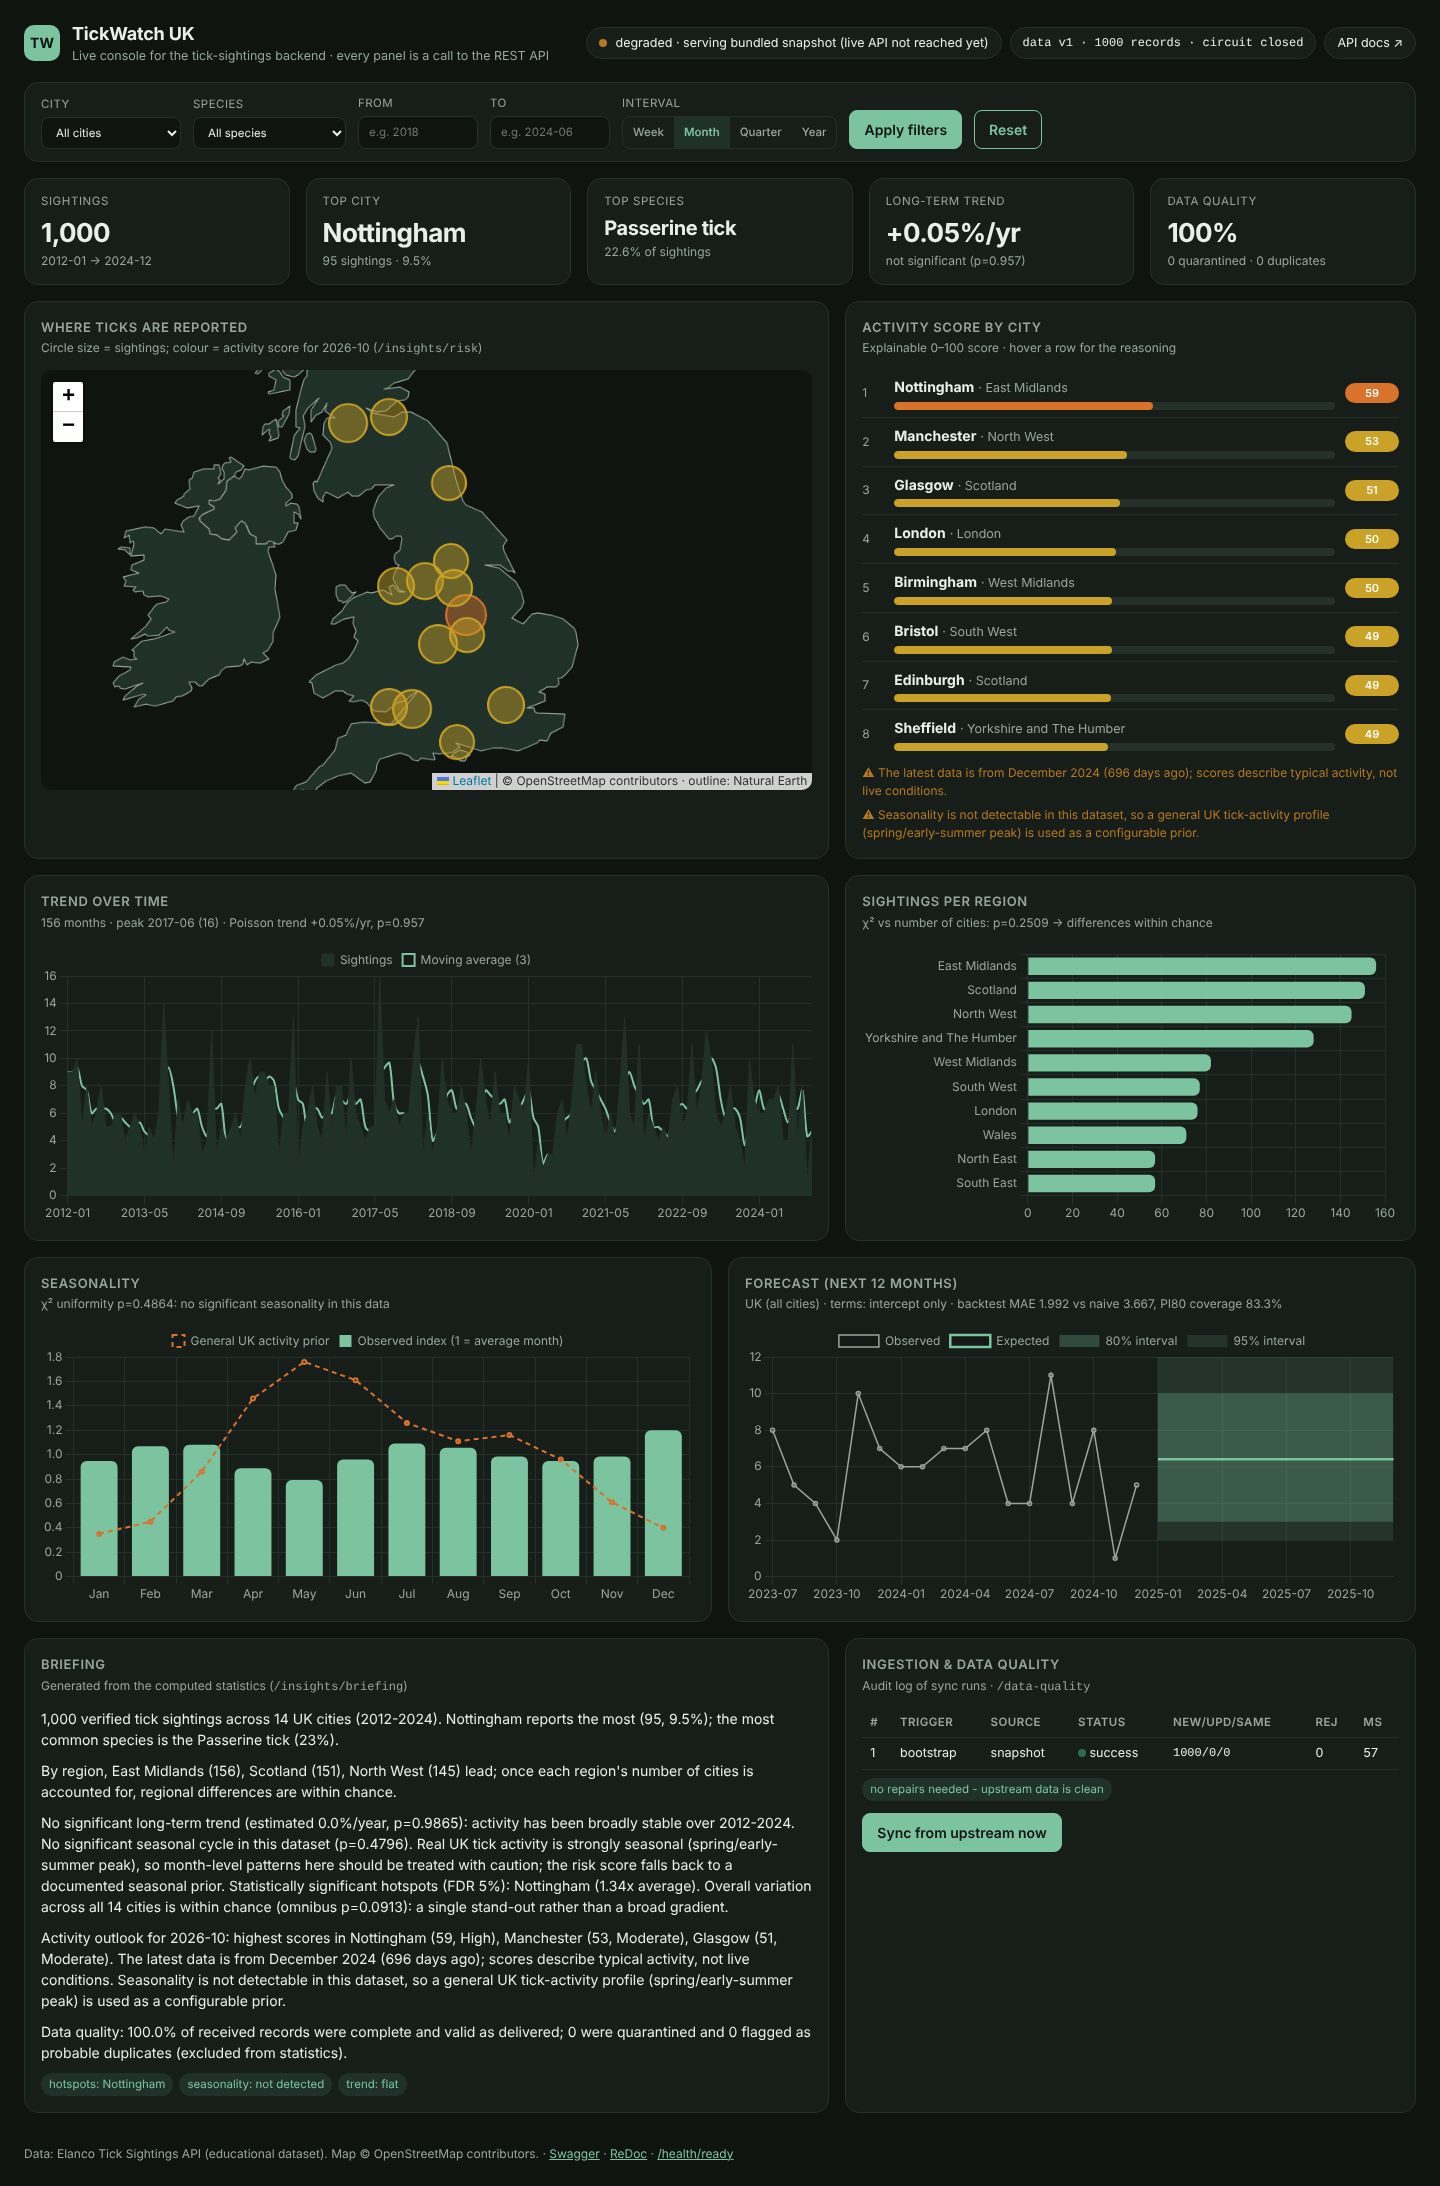
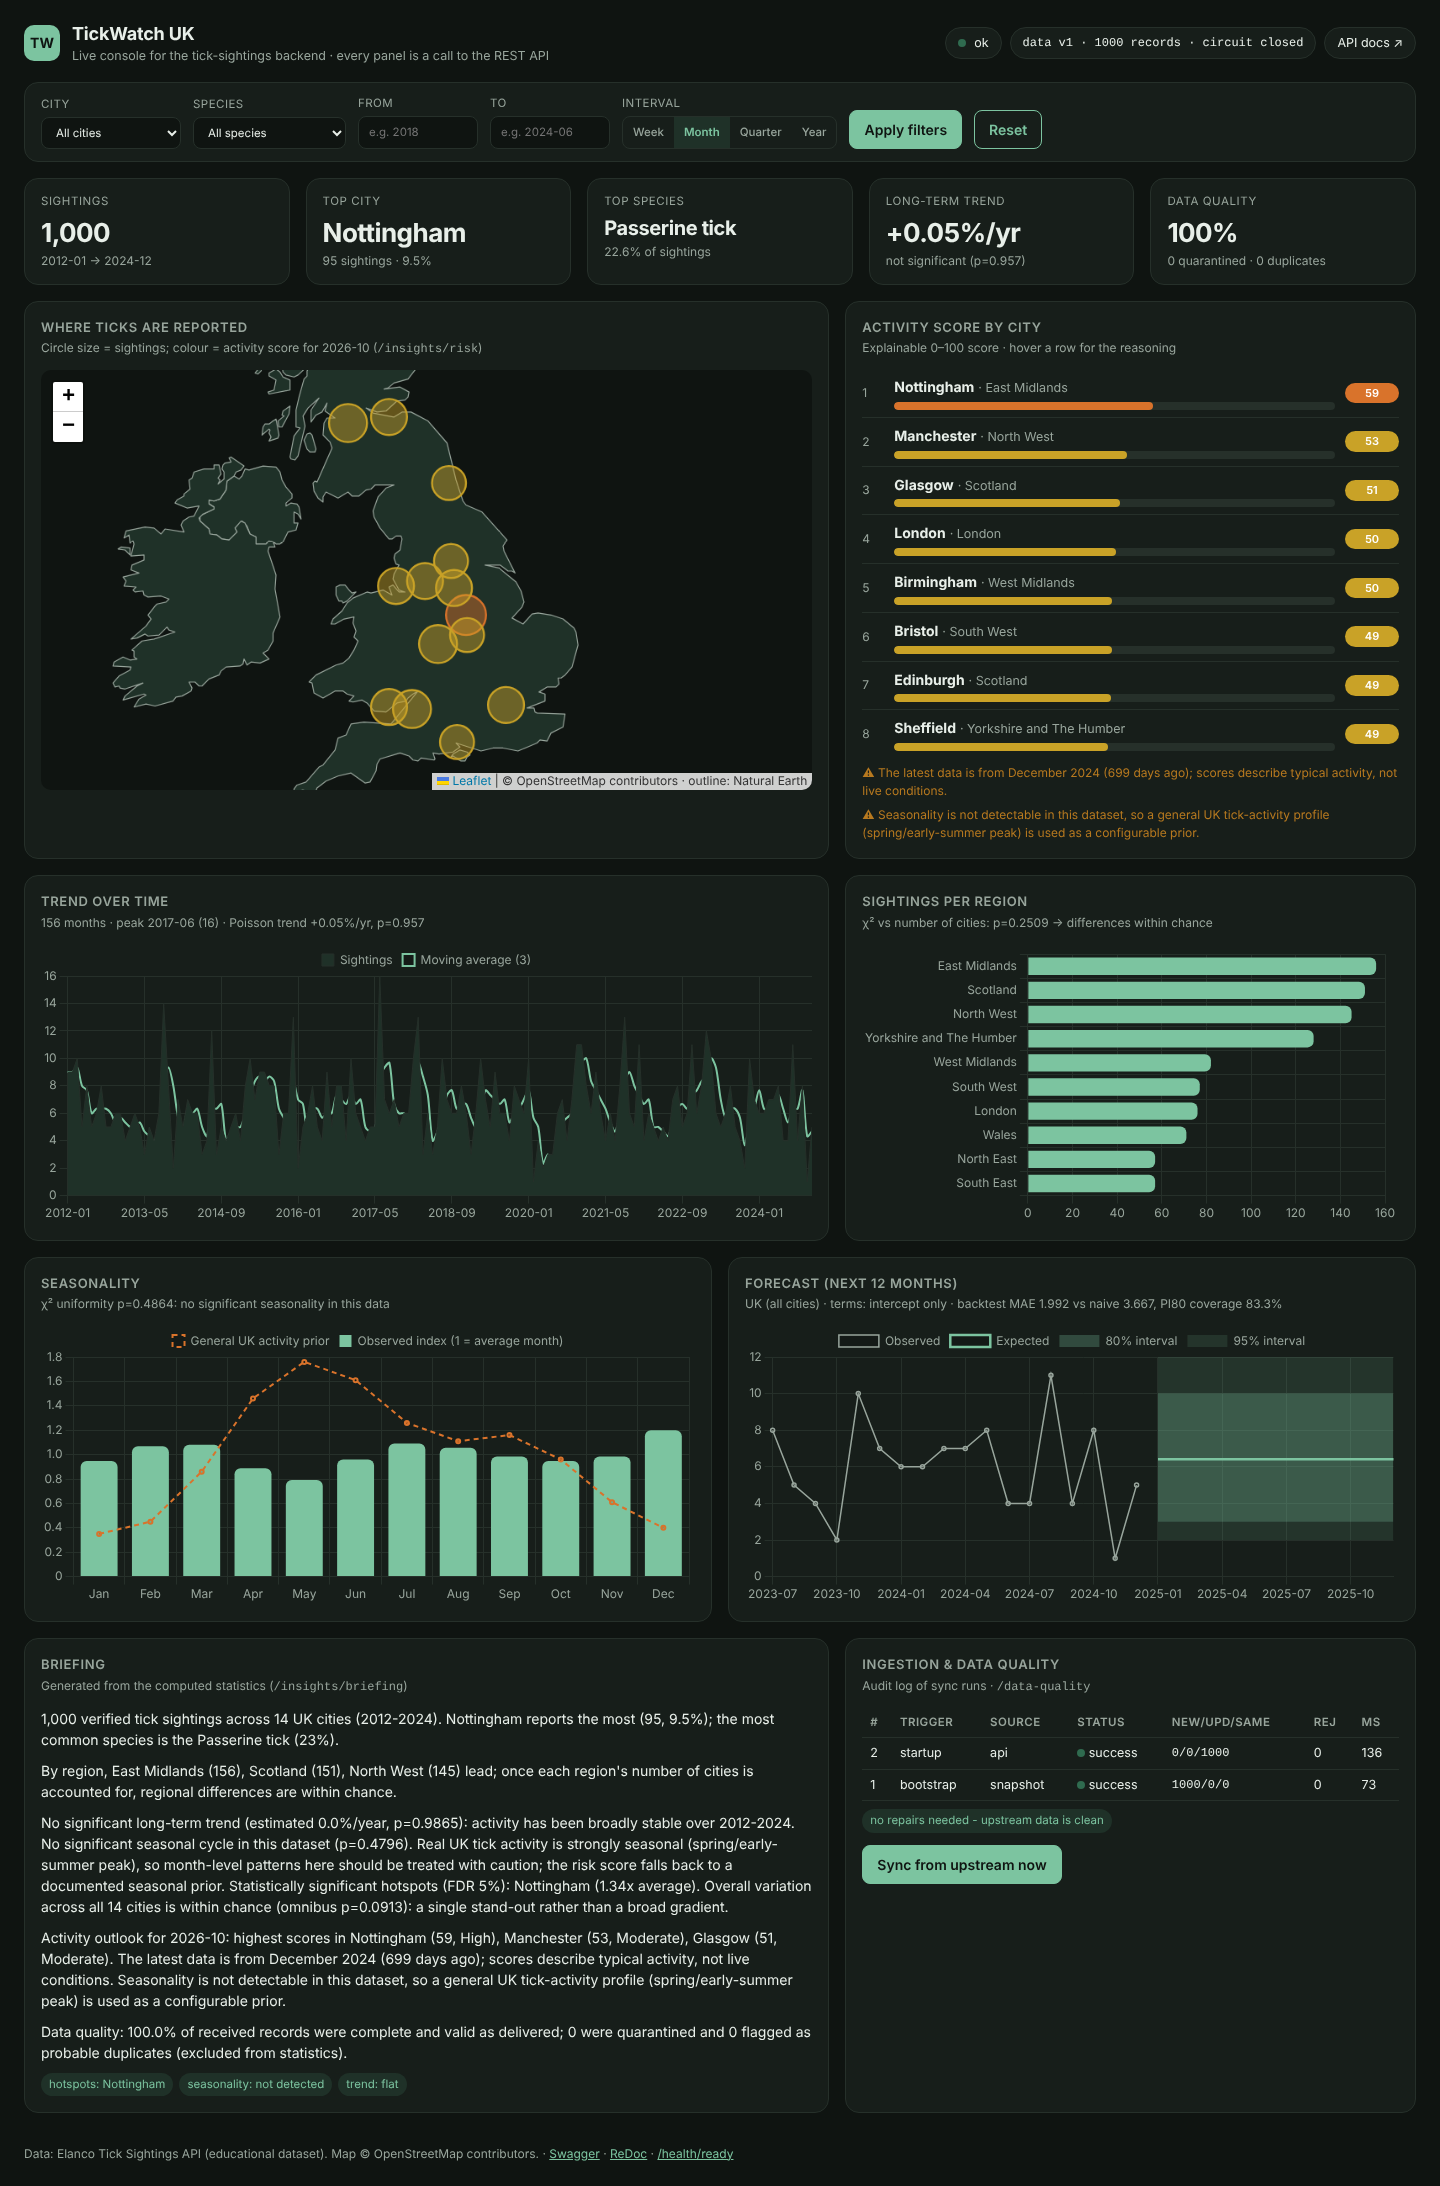
Tidy docs and update screenshots

Changed region(s): [[0.5938, 0.7777, 0.7812, 0.871], [0.8125, 0.7777, 0.875, 0.8088], [0.4375, 0.0, 0.4688, 0.0311]]

diff --git a/README.md b/README.md
@@ -27,8 +27,7 @@ queryable dataset, and serves search, reporting and statistical insights over a 
 11. [Project structure](#11-project-structure)
 12. [What I'd do with more time](#12-what-id-do-with-more-time)
 
-Deeper write-ups: [`docs/ARCHITECTURE.md`](docs/ARCHITECTURE.md) (decisions, trade-offs, failure modes) ·
-[`docs/VIDEO_SCRIPT.md`](docs/VIDEO_SCRIPT.md) (10-minute walkthrough plan).
+Deeper write-up: [`docs/ARCHITECTURE.md`](docs/ARCHITECTURE.md) (decisions, trade-offs, failure modes).
 
 ---
 
@@ -99,7 +98,7 @@ All configuration is via environment variables or a `.env` file — see [`.env.e
 | **Reporting** — sightings per region, weekly/monthly trends | Per city/region/nation (+GeoJSON), zero-filled trends by day/week/month/quarter/year with a proper trend test, seasonality, heatmaps, summary ([§6](#6-reporting-endpoints)) |
 | **AI/ML insights** (extension) | Poisson GLM diagnostics (trend, seasonality, hotspots), forecasts with prediction intervals **and a backtest**, FDR-controlled anomaly detection, an explainable 0–100 activity score, a plain-English briefing ([§7](#7-aiml-insights-extension)) |
 | **Error handling** — API failures and data inconsistencies | Timeouts, jittered retries, `Retry-After`, circuit breaker, per-city fallback, last-known-good data, one consistent error envelope, readiness probe ([§8](#8-error-handling--resilience)) |
-| Docs & thought process | This README, [ARCHITECTURE.md](docs/ARCHITECTURE.md), OpenAPI docs, video script |
+| Docs & thought process | This README, [ARCHITECTURE.md](docs/ARCHITECTURE.md), OpenAPI docs at `/docs` |
 
 ### What I found when I probed the upstream API
 
@@ -363,7 +362,7 @@ data/snapshot/            verified copy of the live dataset (cold start / outage
 tools/chaos_upstream.py   fault-injecting stand-in for the Elanco API
 scripts/                  demo.sh (curl tour), benchmark.py (200k-row scale test)
 tests/                    125 tests
-docs/                     ARCHITECTURE.md, VIDEO_SCRIPT.md, screenshots
+docs/                     ARCHITECTURE.md, screenshots
 ```
 
 ---
